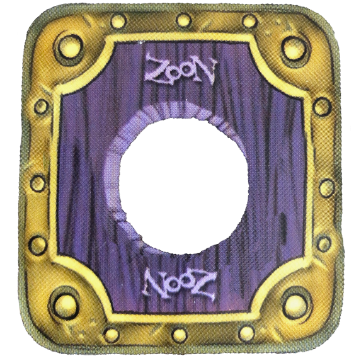
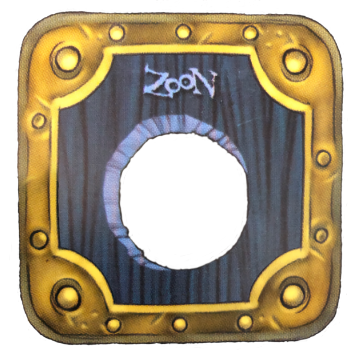
Regenerate card-back assets

diff --git a/src/components/board/card.js b/src/components/board/card.js
@@ -23,7 +23,7 @@ const BoardCard = ({tribe, isOwn = false}) => {
         },
         coat: {
             size: px(40),
-            absolute: [px(41), 0, 0, px(41)],
+            absolute: [px(47), 0, 0, px(41)],
             zIndex: 5,
         },
         decoration: {
